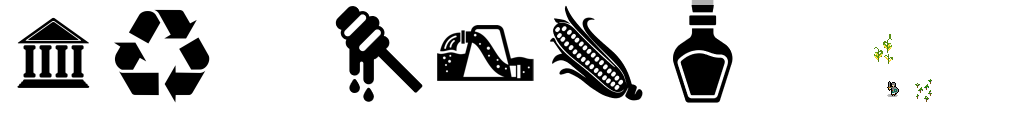
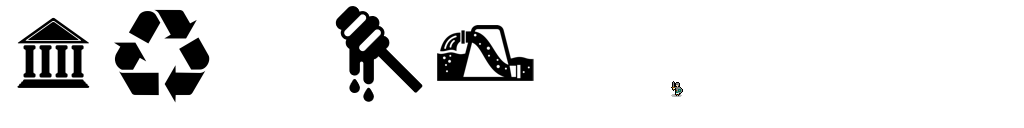
Adjust NA

diff --git a/README.md b/README.md
@@ -5,8 +5,6 @@ Just for fun~
 - [Viking](https://thenounproject.com/icon/viking-4509240/) by Vectorstall
 - [Recycle](https://thenounproject.com/search/?q=recycling&i=4397434) by Umer Younas
 - [honey](https://thenounproject.com/icon/honey-4591385/) by Sumit Saengthong
-- [Corn](https://thenounproject.com/icon/corn-1248249/) by TUTUK ISTUNINGRUM. The original work has been modified
-- [Perfume](https://thenounproject.com/icon/perfume-4557970/) by Rank Sol
 - [Knight](https://thenounproject.com/icon/knight-3155839/) by Eucalyp
 - [Academy](https://thenounproject.com/term/academy/1689703/) By CJS
 - [pumping station](https://thenounproject.com/search/?q=dike&i=555172) by Peter van Driel
